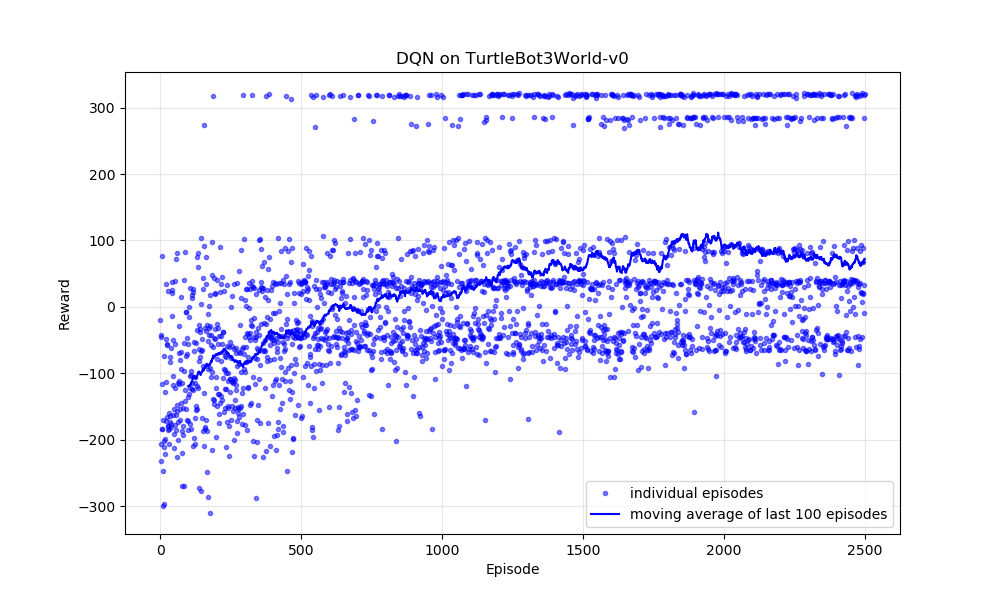
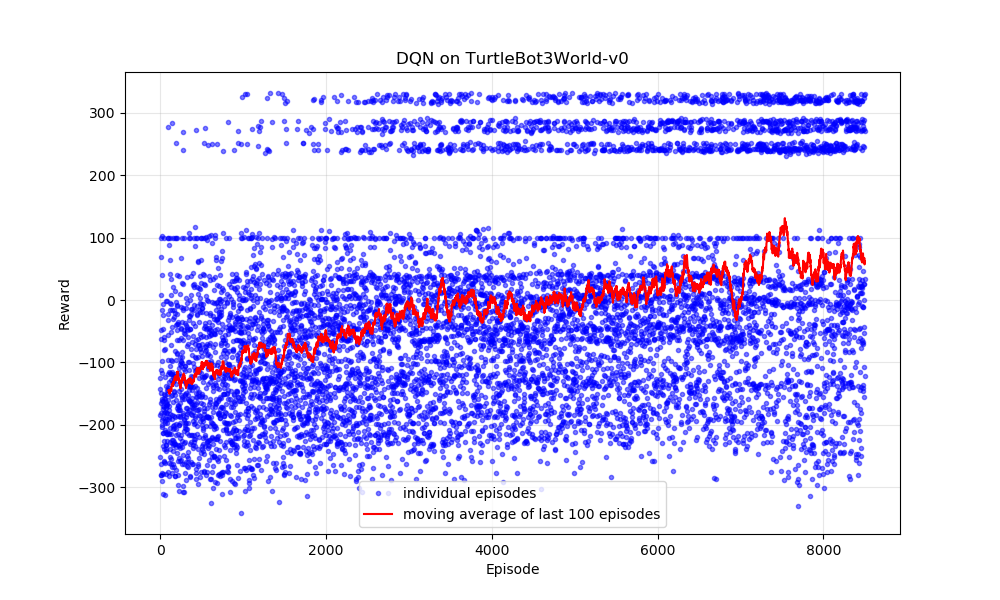
randomized start position as well; added a layer to the goal info branch of the DQN; started 7th training

diff --git a/thesis_ws/src/openai_ros/openai_ros/src/openai_ros/task_envs/turtlebot3/turtlebot3_world.py b/thesis_ws/src/openai_ros/openai_ros/src/openai_ros/task_envs/turtlebot3/turtlebot3_world.py
@@ -13,6 +13,9 @@ from cv_bridge import CvBridge
 import matplotlib.pyplot as plt
 import random
 
+from gazebo_msgs.msg import ModelState
+from gazebo_msgs.srv import SetModelState
+
 
 class TurtleBot3WorldEnv(turtlebot3_env.TurtleBot3Env):
     def __init__(self):
@@ -50,6 +53,9 @@ class TurtleBot3WorldEnv(turtlebot3_env.TurtleBot3Env):
         # We set the reward range, which is not compulsory but here we do it.
         self.reward_range = (-numpy.inf, numpy.inf)
 
+        # Service to set model state
+        rospy.wait_for_service('/gazebo/set_model_state')
+        self.set_model_state_service = rospy.ServiceProxy('/gazebo/set_model_state', SetModelState)
 
         #number_observations = rospy.get_param('/turtlebot3/n_observations')
         """
@@ -130,7 +136,7 @@ class TurtleBot3WorldEnv(turtlebot3_env.TurtleBot3Env):
                         self.init_linear_turn_speed,
                         epsilon=0.05,
                         update_rate=10)
-
+        
         return True
 
 
@@ -145,11 +151,28 @@ class TurtleBot3WorldEnv(turtlebot3_env.TurtleBot3Env):
         # Set to false Done, because its calculated asyncronously
         self._episode_done = False
 
+        spawn_points = [(0.0, 0.0),
+                        (2.0, 1.0),
+                        (-1.0, 1.0),
+                        (-2.0, -1.0),
+                        (0.5, -2.0)]
+        
+        spawn_x, spawn_y = random.choice(spawn_points)
+        spawn_yaw = random.uniform(-numpy.pi, numpy.pi)
+
+        self.set_robot_spawn_position(spawn_x, spawn_y, 0.0, spawn_yaw)
+
+        rospy.logwarn("TurtleBot3 Spawned at==>"+str(spawn_x)+","+str(spawn_y)+","+str(spawn_yaw))
+
         # Dynamic goal position, changing every epsiode
         goal_points = [(-0.5, 2.5), 
                        (2.5, -1.0),
                        (-2.5, 2.0),
-                       (-2.5, -2.0)]
+                       (-2.5, -2.0),
+                       (1.5, 1.5),
+                       (0.5, -2.0),
+                       (-2.5, 0.0),
+                       (0.5, 2.0)]
         
         x, y = random.choice(goal_points)
 
@@ -413,7 +436,37 @@ class TurtleBot3WorldEnv(turtlebot3_env.TurtleBot3Env):
         rospy.logdebug("Cumulated_steps=" + str(self.cumulated_steps))
 
         return reward
+    
+    def set_robot_spawn_position(self, x, y, z, yaw):
+        """
+        Set the robot's spawn position in the Gazebo serivce
+        """
+        model_state = ModelState()
+        model_state.model_name = 'turtlebot3_burger'
+        
+        model_state.pose.position.x = x
+        model_state.pose.position.y = y
+        model_state.pose.position.z = z
 
+        quaternion = self.euler_to_quaternion(0, 0, yaw)
+        model_state.pose.orientation.x = quaternion[0]
+        model_state.pose.orientation.y = quaternion[1]
+        model_state.pose.orientation.z = quaternion[2]
+        model_state.pose.orientation.w = quaternion[3]
+
+        model_state.twist.linear.x = 0.0
+        model_state.twist.linear.y = 0.0
+        model_state.twist.linear.z = 0.0
+        model_state.twist.angular.x = 0.0
+        model_state.twist.angular.y = 0.0
+        model_state.twist.angular.z = 0.0
+
+        model_state.reference_frame = 'world'
+
+        try:
+            self.set_model_state_service(model_state)
+        except rospy.ServiceException as e:
+            rospy.logerr("Service call failed: " + str(e))
 
     # Internal TaskEnv Methods
 
@@ -491,4 +544,22 @@ class TurtleBot3WorldEnv(turtlebot3_env.TurtleBot3Env):
         yaw = numpy.arctan2(siny_cosp, cosy_cosp)
         
         return roll, pitch, yaw
+    
+    def euler_to_quaternion(self, roll, pitch, yaw):
+        """
+        Convert euler angles to quaternion
+        """
+        cy = numpy.cos(yaw * 0.5)
+        sy = numpy.sin(yaw * 0.5)
+        cr = numpy.cos(roll * 0.5)
+        sr = numpy.sin(roll * 0.5)
+        cp = numpy.cos(pitch * 0.5)
+        sp = numpy.sin(pitch * 0.5)
 
+        q = [0] * 4
+        q[0] = sr * cp * cy - cr * sp * sy  # x
+        q[1] = cr * sp * cy + sr * cp * sy  # y  
+        q[2] = cr * cp * sy - sr * sp * cy  # z
+        q[3] = cr * cp * cy + sr * sp * sy  # w
+
+        return q

diff --git a/thesis_ws/src/my_turtlebot3_openai_example/scripts/start_deepqlearning.py b/thesis_ws/src/my_turtlebot3_openai_example/scripts/start_deepqlearning.py
@@ -186,7 +186,8 @@ class DQN(nn.Module):
         self.depth_fc2 = nn.Linear(64, 64)
 
         # network branch for goal info
-        self.goal_fc = nn.Linear(2, 32)
+        self.goal_fc1 = nn.Linear(2, 32)
+        self.goal_fc2 = nn.Linear(32, 32)
 
         self.combined_fc1 = nn.Linear(64 + 32, 128)
         self.combined_fc2 = nn.Linear(128, 64)
@@ -210,7 +211,8 @@ class DQN(nn.Module):
         depth_features = F.silu(self.depth_fc1(depth_img))
         depth_features = F.silu(self.depth_fc2(depth_features))
 
-        goal_features = F.silu(self.goal_fc(goal_info))
+        goal_features = F.silu(self.goal_fc1(goal_info))
+        goal_features = F.silu(self.goal_fc2(goal_features))
 
         combined_features = torch.cat((depth_features, goal_features), dim=1)
         combined_features = F.silu(self.combined_fc1(combined_features))
@@ -259,11 +261,11 @@ def optimize_model(batch_size, gamma):
     # (a final state would've been the one after which simulation ended)
     non_final_mask = torch.tensor(tuple(map(lambda s: s is not None,
                                           batch.next_state)), device=device, dtype=torch.bool)
-    non_final_next_states = torch.stack([s for s in batch.next_state
+    non_final_next_states = torch.stack([s.to(device) for s in batch.next_state
                                                 if s is not None])
-    state_batch = torch.stack(batch.state)
-    action_batch = torch.cat(batch.action)
-    reward_batch = torch.cat(batch.reward)
+    state_batch = torch.stack([s.to(device) for s in batch.state])
+    action_batch = torch.cat([a.to(device) for a in batch.action])
+    reward_batch = torch.cat([r.to(device) for r in batch.reward])
 
     # Compute Q(s_t, a) - the model computes Q(s_t), then we select the
     # columns of actions taken. These are the actions which would've been taken
@@ -323,7 +325,7 @@ def plot_rewards(episode_rewards, episode_n, window_size=100):
         for i in range(len(episode_rewards) - window_size + 1):
             window_avg = numpy.mean(episode_rewards[i:i+window_size])
             moving_avg.append(window_avg)
-        plt.plot(range(window_size-1, len(episode_rewards)), moving_avg, 'b-', 
+        plt.plot(range(window_size-1, len(episode_rewards)), moving_avg, 'r-', 
                 label=f'moving average of last {window_size} episodes')
     
     plt.xlabel('Episode')
